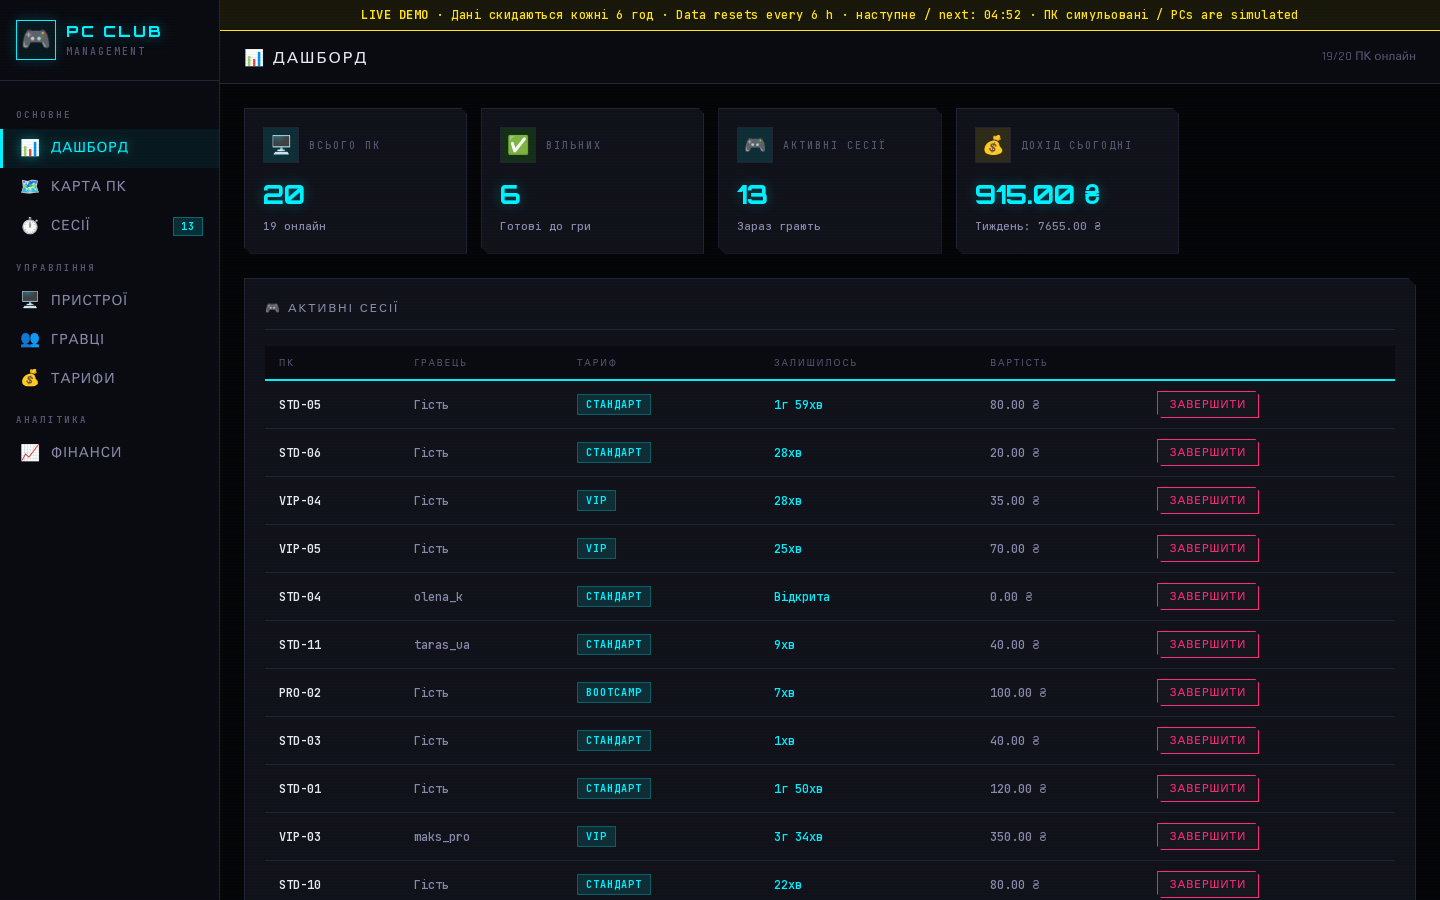
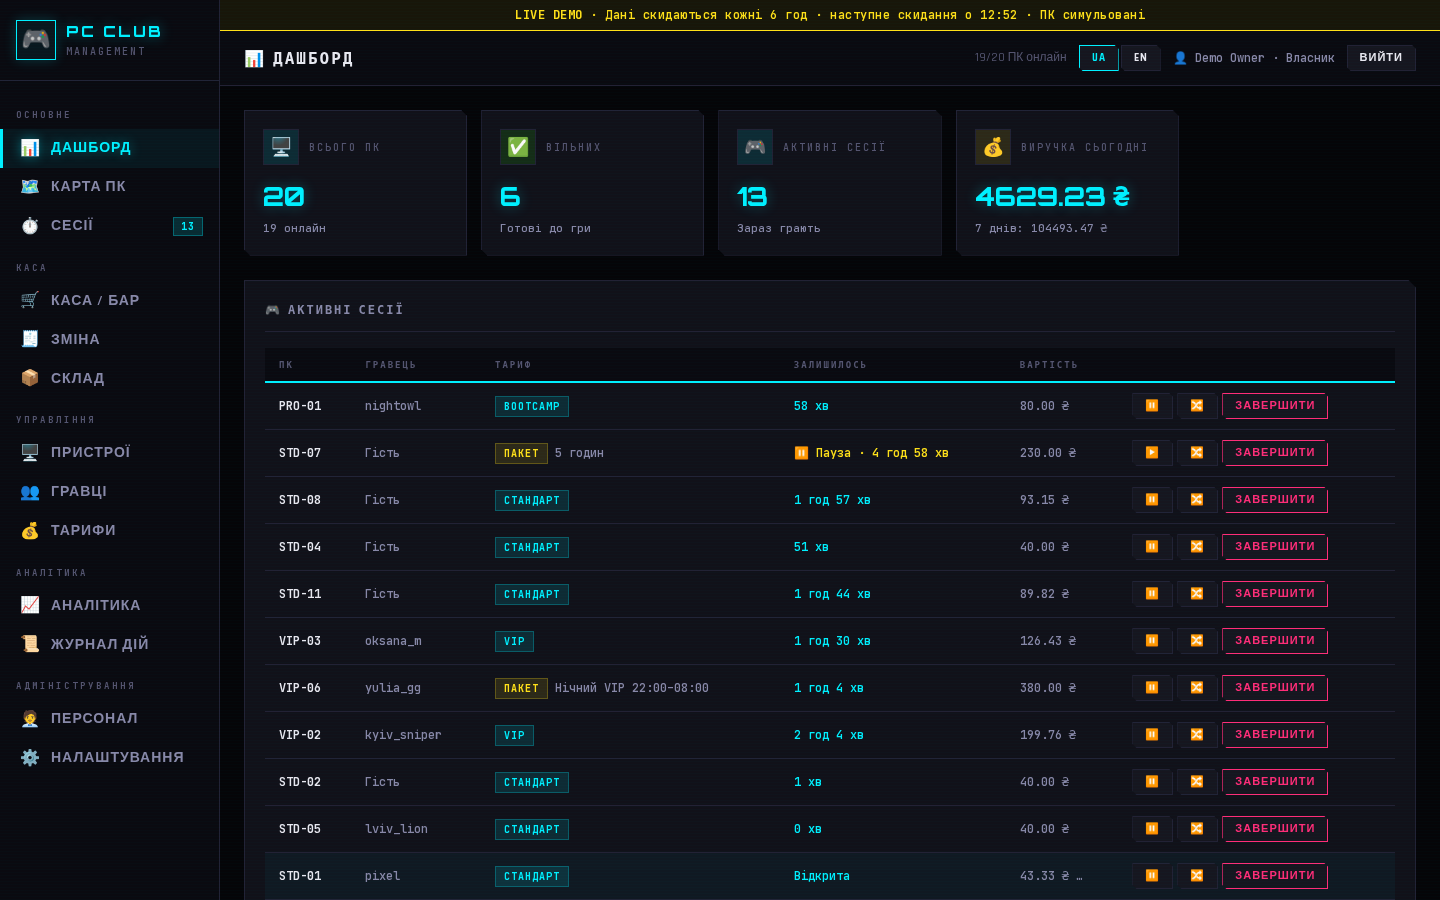
docs: screenshots of the PC map, bar checkout, Z-report and analytics
docs/screenshots: dashboard (new), PC map, bar checkout, Z-report of a seeded
shift (variance and audit anchor), owner analytics in Ukrainian and English
(30 days) and on a phone. Taken from demo mode with headless Chromium and the
Noto Color Emoji font from a local font directory (FONTCONFIG_FILE), so emoji
render instead of boxes. docs/index.html: a small bilingual screenshots
section (no dependency; the analytics image follows the UA / EN switch).

Claude-Session: https://claude.ai/code/session_01T44nGXXfb2jTe7P4hBLX7e

diff --git a/docs/index.html b/docs/index.html
@@ -76,6 +76,11 @@
   .stack-list { display: grid; grid-template-columns: repeat(auto-fit, minmax(220px, 1fr)); gap: 12px; margin-top: 14px; }
   .stack-item { background: var(--surface-2); border: 1px solid var(--border); border-radius: 8px; padding: 12px 14px; font-size: 14px; }
   .stack-item strong { color: var(--cyan); display: block; margin-bottom: 2px; }
+  .shots { display: grid; grid-template-columns: repeat(auto-fit, minmax(300px, 1fr)); gap: 18px; margin: 36px 0; }
+  .shot { margin: 0; background: var(--surface); border: 1px solid var(--border); border-radius: 12px; overflow: hidden; }
+  .shot img { display: block; width: 100%; aspect-ratio: 16 / 10; object-fit: cover; object-position: top left; }
+  .shot figcaption { padding: 10px 14px; font-size: 13px; color: var(--muted); }
+  .shots-title { margin: 44px 0 0; font-size: 22px; color: #fff; }
   footer { border-top: 1px solid var(--border); padding: 26px 0 40px; text-align: center; color: var(--muted); font-size: 13px; margin-top: 40px; }
   footer a { color: var(--cyan); text-decoration: none; }
 </style>
@@ -129,6 +134,26 @@
     </div>
   </section>
 
+  <h2 class="shots-title" data-en="Screenshots (live demo data)" data-uk="Знімки екрана (дані демо)">Screenshots (live demo data)</h2>
+  <section class="shots">
+    <figure class="shot">
+      <a href="screenshots/analytics-en.png"><img src="screenshots/analytics-en.png" data-src-en="screenshots/analytics-en.png" data-src-uk="screenshots/analytics-uk.png" alt="Owner analytics" loading="lazy"></a>
+      <figcaption data-en="Owner analytics: revenue by day, payment methods, occupancy by zone and hour" data-uk="Аналітика власника: виручка за днями, способи оплати, завантаженість за зонами й годинами">Owner analytics: revenue by day, payment methods, occupancy by zone and hour</figcaption>
+    </figure>
+    <figure class="shot">
+      <a href="screenshots/pc-map.png"><img src="screenshots/pc-map.png" alt="PC map" loading="lazy"></a>
+      <figcaption data-en="PC map: every PC by zone, live state, packages and time left" data-uk="Карта ПК: усі ПК за зонами, стан наживо, пакети й залишок часу">PC map: every PC by zone, live state, packages and time left</figcaption>
+    </figure>
+    <figure class="shot">
+      <a href="screenshots/bar-checkout.png"><img src="screenshots/bar-checkout.png" alt="Bar checkout" loading="lazy"></a>
+      <figcaption data-en="Bar checkout: touch tiles, stock, cash, card or player balance" data-uk="Каса бару: плитки товарів, склад, готівка, картка або баланс гравця">Bar checkout: touch tiles, stock, cash, card or player balance</figcaption>
+    </figure>
+    <figure class="shot">
+      <a href="screenshots/z-report.png"><img src="screenshots/z-report.png" alt="Z-report" loading="lazy"></a>
+      <figcaption data-en="Z-report of a shift: cash variance, reconciled with the ledger, audit anchor" data-uk="Z-звіт зміни: розбіжність каси, звірка з журналом, якір журналу дій">Z-report of a shift: cash variance, reconciled with the ledger, audit anchor</figcaption>
+    </figure>
+  </section>
+
   <section class="stack-box">
     <h2 data-en="Clean Production Architecture" data-uk="Архітектура системи">Clean Production Architecture</h2>
     <div class="stack-list">
@@ -156,6 +181,7 @@ function toggleLang() {
     const val = el.getAttribute('data-' + lang);
     if (val) el.innerHTML = val;
   });
+  document.querySelectorAll('[data-src-en]').forEach(el => { el.src = el.getAttribute('data-src-' + lang); });
 }
 </script>
 </body>
